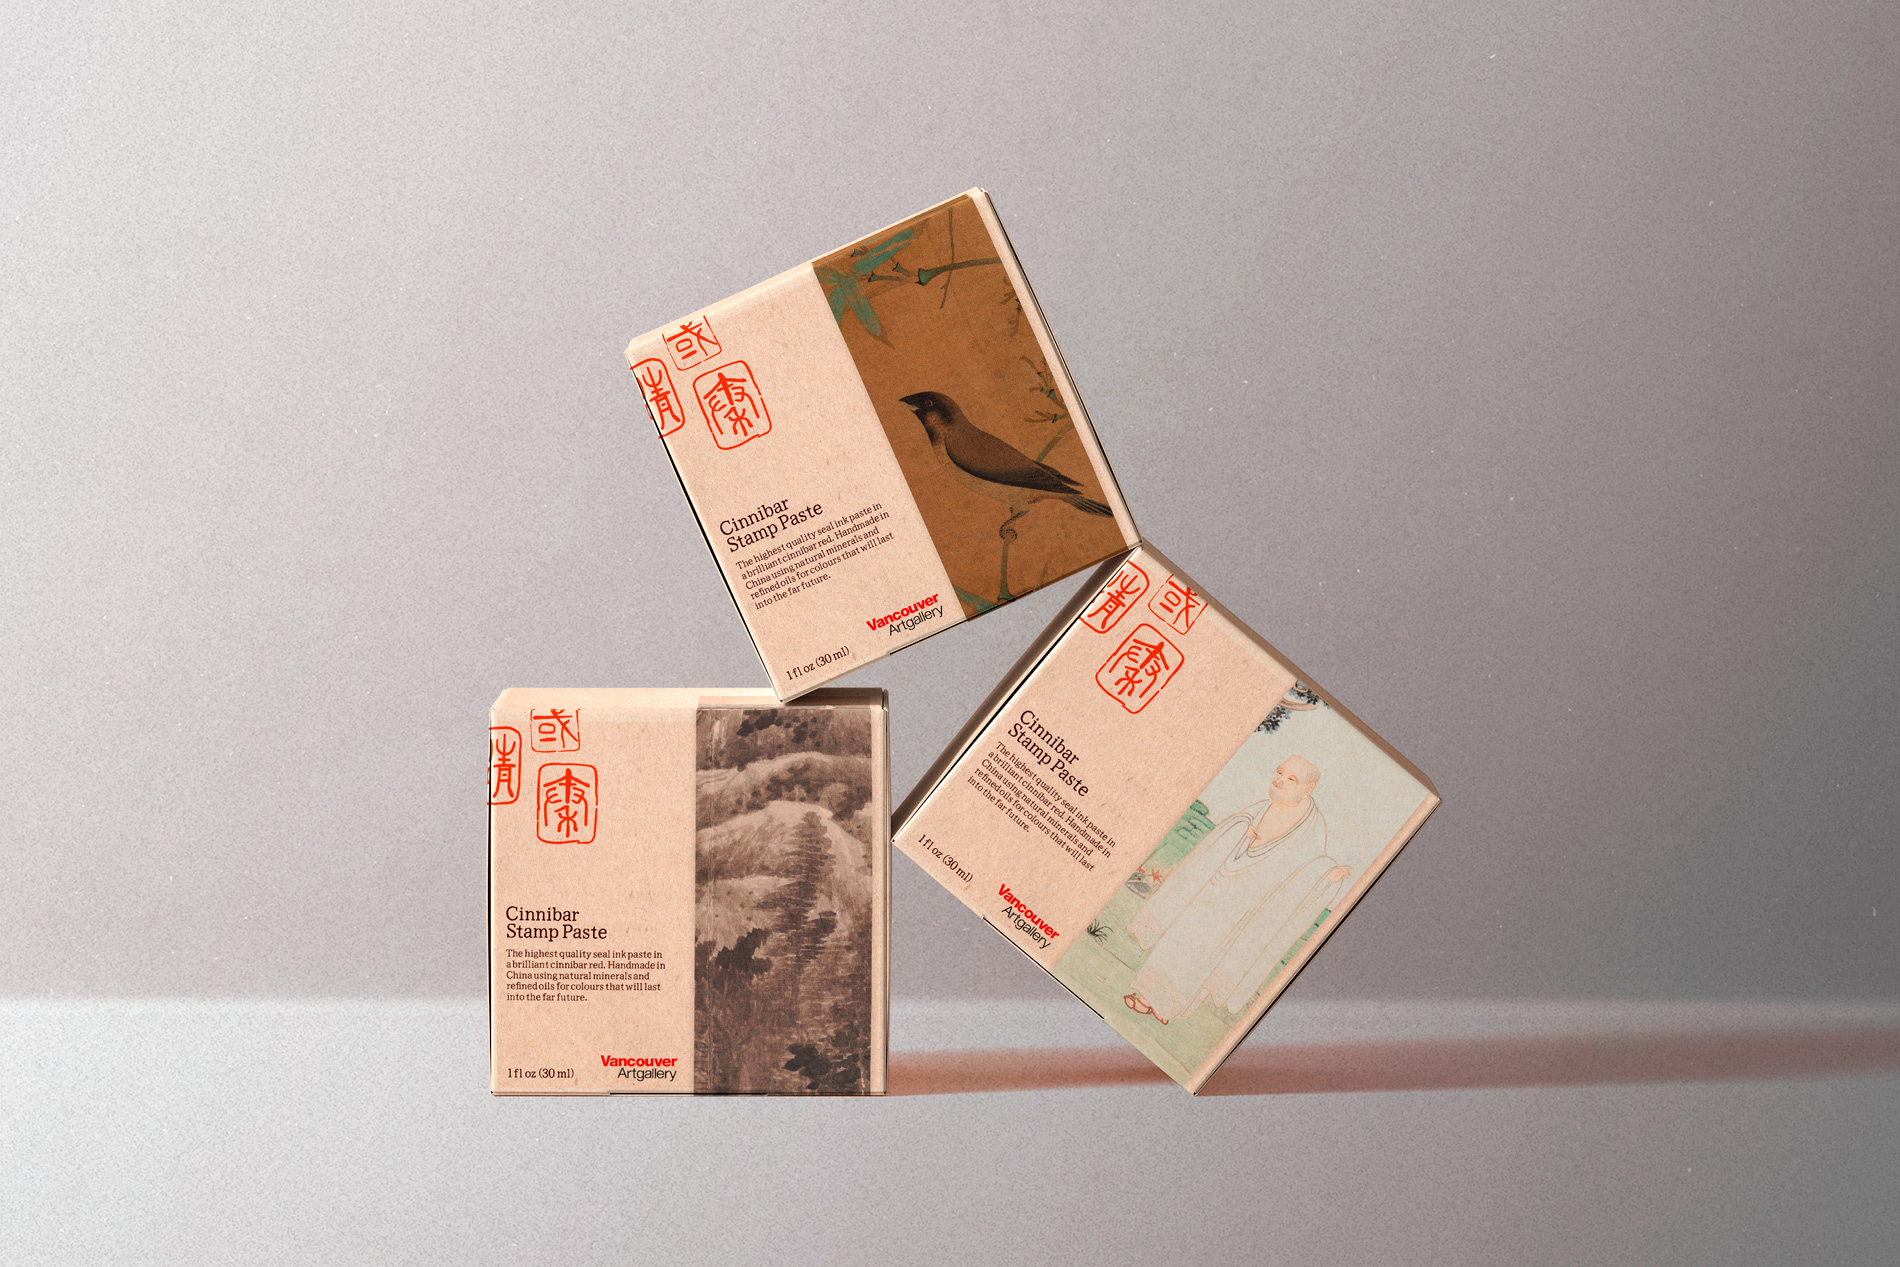
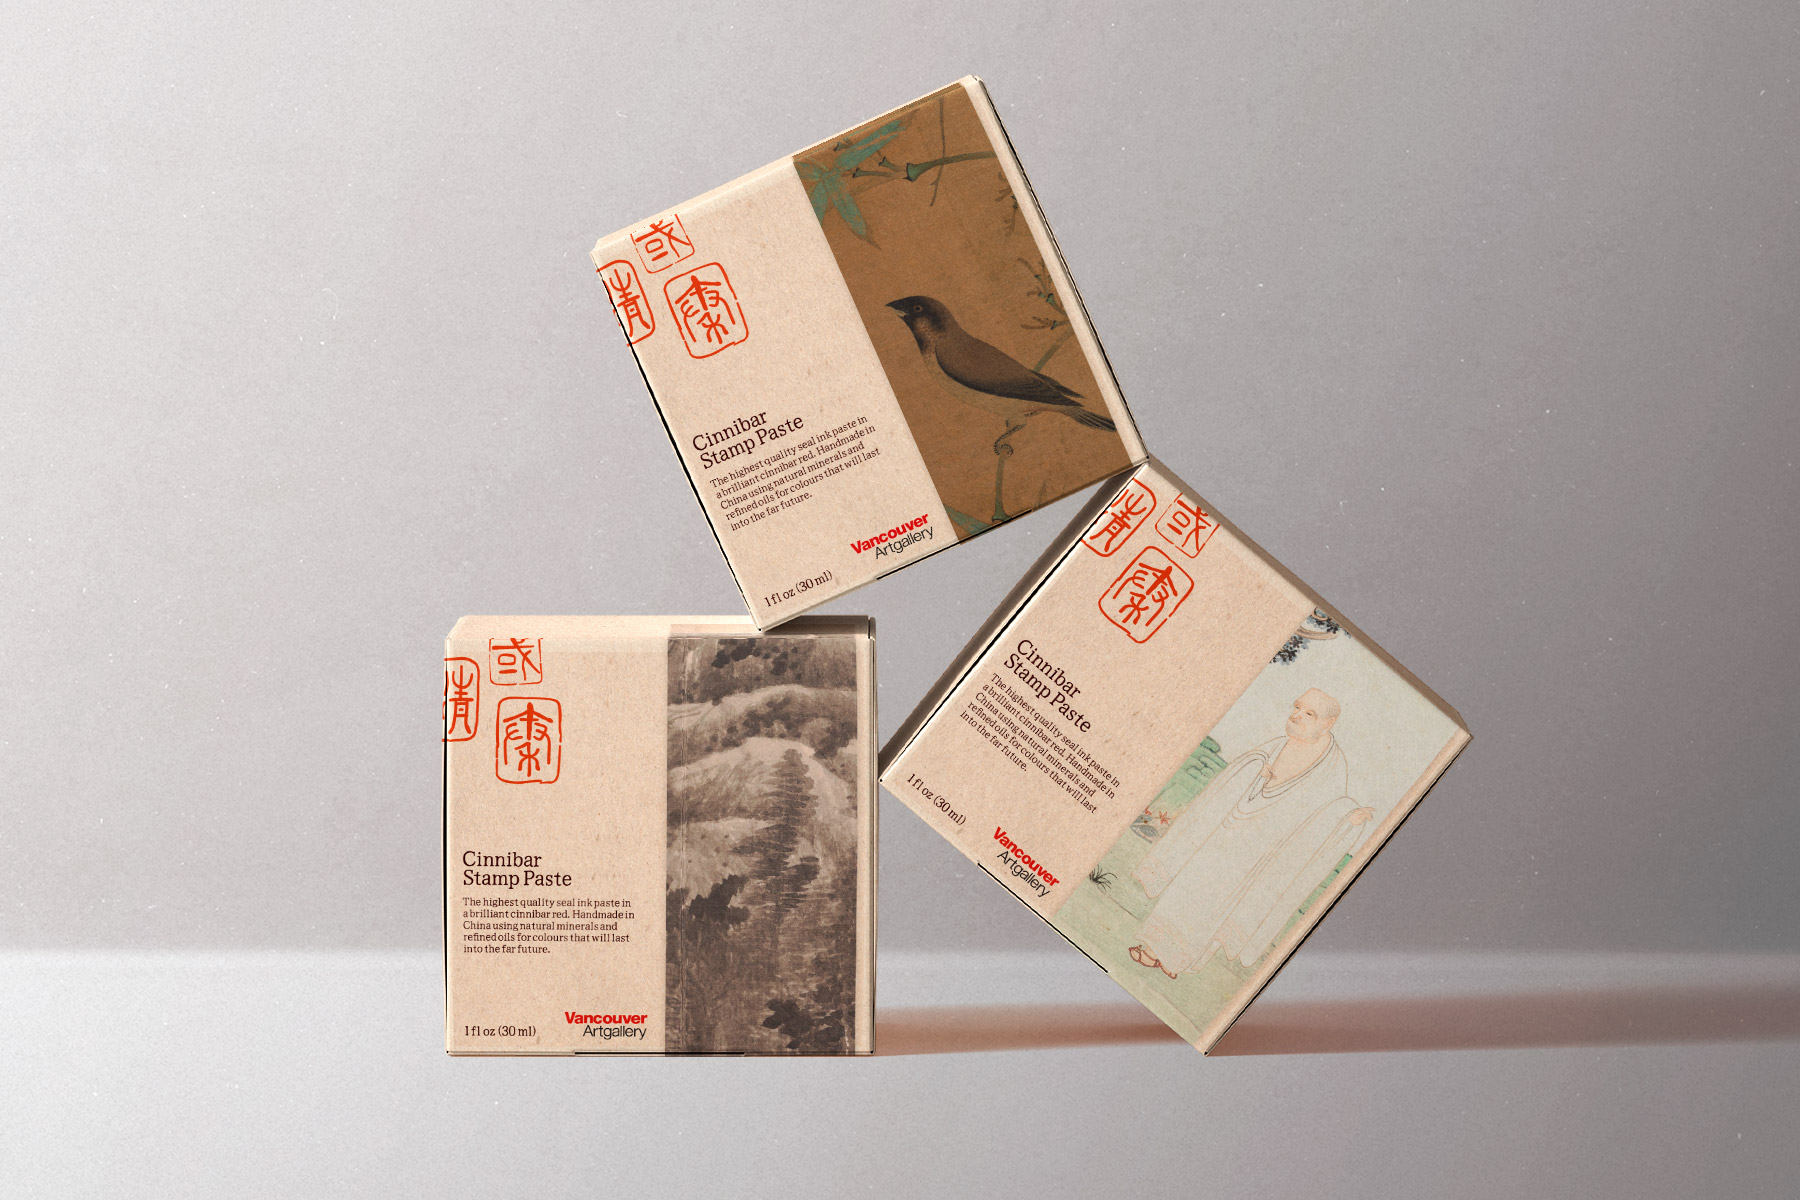
fixed margins and changed the chinese bag page

Changed region(s): [[0.2178, 0.0617, 1.0, 0.8942]]

diff --git a/chinese-national-bag.html b/chinese-national-bag.html
@@ -20,7 +20,7 @@
     <link rel="stylesheet" href="./styles/style.css" />
   </head>
 
-  <body class="project-1">
+  <body class="project-2">
     <header class="hero-header">
       <ul class="branding-navigation">
         <li class="logo">
@@ -53,17 +53,31 @@
         </li>
       </ul>
     </header>
+    <div>
+      <ul class="project-navigation">
+        <li class="arrow">
+          <a href="index.html" class="navigation-arrow"
+            ><i class="fas fa-arrow-left fa-2x"></i
+          ></a>
+        </li>
+        <li>
+          <h1 class="project-title">Chinese National Bag</h1>
+        </li>
+      </ul>
+    </div>
+
+    <div class="project-image-wide">
+      <img
+        src="assets/images/caroline-zhang-chinese-national-luxury-bag-design.jpg"
+        alt=""
+        width="1800"
+      />
+    </div>
+
     <div class="project-wrapper">
-      <aside class="project-aside">
+      <aside class="project-aside-temp">
         <div class="project-info">
-          <h1 class="project-title">Chinese National Bag Design</h1>
-          <p>
-            <a
-              href="https://rgd.ca/hiring-designers/award-winners/rgd-student-awards-past-winners"
-              >RGD's 2023 Student Awards Honourable Mentions in packaging and
-              1st year student categories</a
-            >
-          </p>
+          <h6>Branding / Packaging / Campaign</h6>
           <p class="project-description">
             For this project I wanted to challenge the stereotype that "Made in
             China" means cheap production and poor quality. The use of seal
@@ -84,75 +98,32 @@
             utilizes museum artwork.
           </p>
         </div>
-        <ul class="project-navigation">
-          <li class="arrow">
-            <a href="liminal.html" class="navigation-arrow"
-              ><i class="fas fa-arrow-left fa-2x"></i
-            ></a>
-          </li>
-          <li class="arrow">
-            <a href="d3adme4t.html" class="navigation-arrow"
-              ><i class="fas fa-arrow-right fa-2x"></i
-            ></a>
-          </li>
-        </ul>
       </aside>
       <main class="project-details">
         <div class="project-image">
-          <img
-            src="assets/images/caroline-zhang-chinese-national-luxury-bag-design.jpg"
-            width="700"
-            height="700"
-            alt="A description of the image"
-          />
-        </div>
-        <div class="project-image">
-          <img
-            src="assets/images/caroline-zhang-design-packaging-national-bag-Dynasties-in-a-Bag-Poster.jpg"
-            width="600"
-            alt=""
-          />
-        </div>
-        <div class="project-image">
           <figure>
             <img
-              src="assets/images/caroline-zhang-design-packaging-national-bag-Dynasties-in-a-Bag-Packaging-box-mockup.jpg"
-              width="1000"
+              src="assets/images/caroline-zhang-design-packaging-national-bag-Dynasties-in-a-Bag-exhibit-poster-mockup.jpg"
               alt=""
-            />
-            <figcaption class="caption">
-              Guests can take home their own seal stamp ink from the gift shop.
-            </figcaption>
-          </figure>
-        </div>
-        <div class="project-image">
-          <figure>
-            <img
-              src="assets/images/caroline-zhang-design-packaging-national-bag-Dynasties-in-a-Bag-ink-pad-mockup.jpg"
               width="1000"
-              alt=""
             />
-            <figcaption class="caption">
-              Ink pads feature select artwork from the exhibit and a thick red
-              paste used traditionally for seal stamps.
-            </figcaption>
-          </figure>
-        </div>
-        <div class="project-image">
-          <figure>
-            <img
-              src="assets/images/chinese-seal-stamps-horse-painting.jpg"
-              width="900"
-              height="1127"
-              alt="A description of the image"
-            />
-            <figcaption class="caption">
-              Night-Shining White by Han Gan (ca. 750) in the Met
-            </figcaption>
           </figure>
         </div>
       </main>
     </div>
+    <div class="project-image-wide">
+      <figure>
+        <img
+          src="assets/images/caroline-zhang-design-packaging-national-bag-Dynasties-in-a-Bag-Packaging-box-mockup.jpg"
+          alt=""
+          width="1800"
+        />
+        <figcaption class="caption">
+          Visitors can take home their own seal stamp ink from the gift shop.
+        </figcaption>
+      </figure>
+    </div>
+
     <ul class="global-footer">
       <li class="footer-item-1">
         <h2>About Me</h2>
@@ -220,10 +191,6 @@
         </p>
       </li>
     </ul>
-
-    <div id="myID" class="bottomMenu hide">
-      <a href="#">Back to top</a>
-    </div>
 
     <script type="text/javascript">
       myID = document.getElementById("myID");

diff --git a/styles/style.css b/styles/style.css
@@ -522,10 +522,6 @@ body {
 }
 
 /* Padding around work grid and project page */
-.portfolio,
-.project-wrapper {
-  padding: 0.25rem;
-}
 
 /* Defining the work page grid */
 .grid {
@@ -705,7 +701,7 @@ body {
 
 .caption {
   margin-top: 1rem;
-  margin-bottom: 1rem;
+  margin-bottom: 0.5rem;
   font-style: italic;
 }
 
@@ -721,7 +717,7 @@ body {
   display: flex;
   align-items: center;
   justify-content: center;
-  padding-right: 1rem;
+  padding: 0rem 1.5rem 3rem;
 }
 
 .project-image-wide {
@@ -1061,7 +1057,7 @@ body {
   /* Padding around work grid and project page */
   .portfolio,
   .project-wrapper {
-    padding: 0.5rem;
+    padding-top: 0.5rem;
   }
 
   /* Project Page Flex Direction on Large Devices */

diff --git a/index.html b/index.html
@@ -117,7 +117,7 @@
           <li class="work-page-grid-item">
             <figure>
               <img
-                src="assets/images/caroline-zhang-chinese-national-luxury-bag-design.jpg"
+                src="assets/images/caroline-zhang-china-national-bag-design-home.jpg"
                 alt="Bag design featuring references to Chinese seal stamps built to represent the nation."
               />
             </figure>

diff --git a/d3adme4t.html b/d3adme4t.html
@@ -107,7 +107,7 @@
             <img
               src="assets/images/caroline-zhang-d3adme4t-music-festival-spotify-takeover.jpg"
               alt=""
-              width="1200"
+              width="1000"
             />
             <figcaption class="caption">
               Spotify takeover showcasing the headlining artist and linking to
